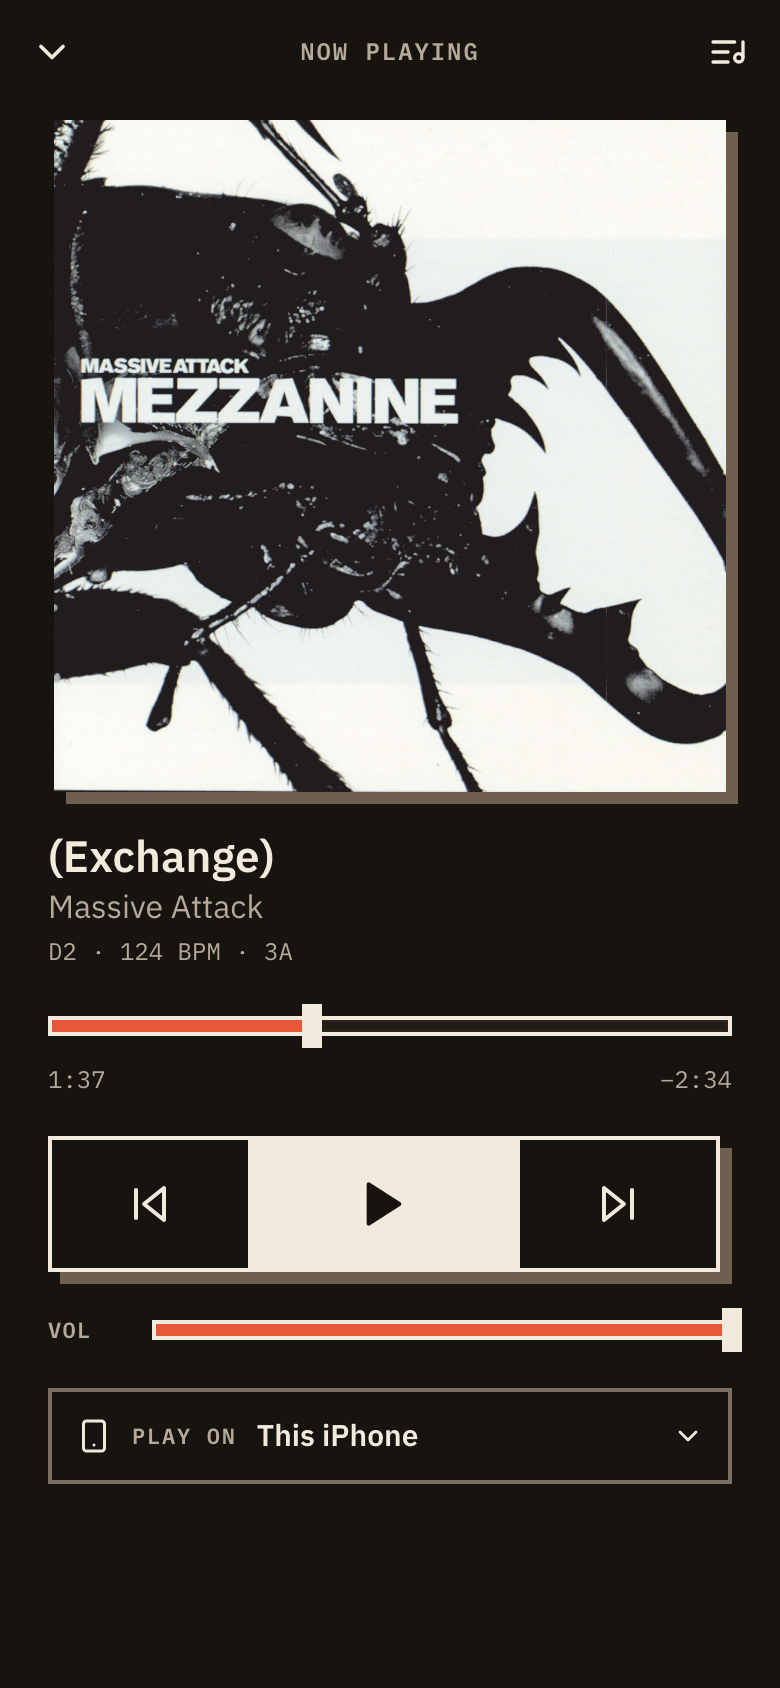
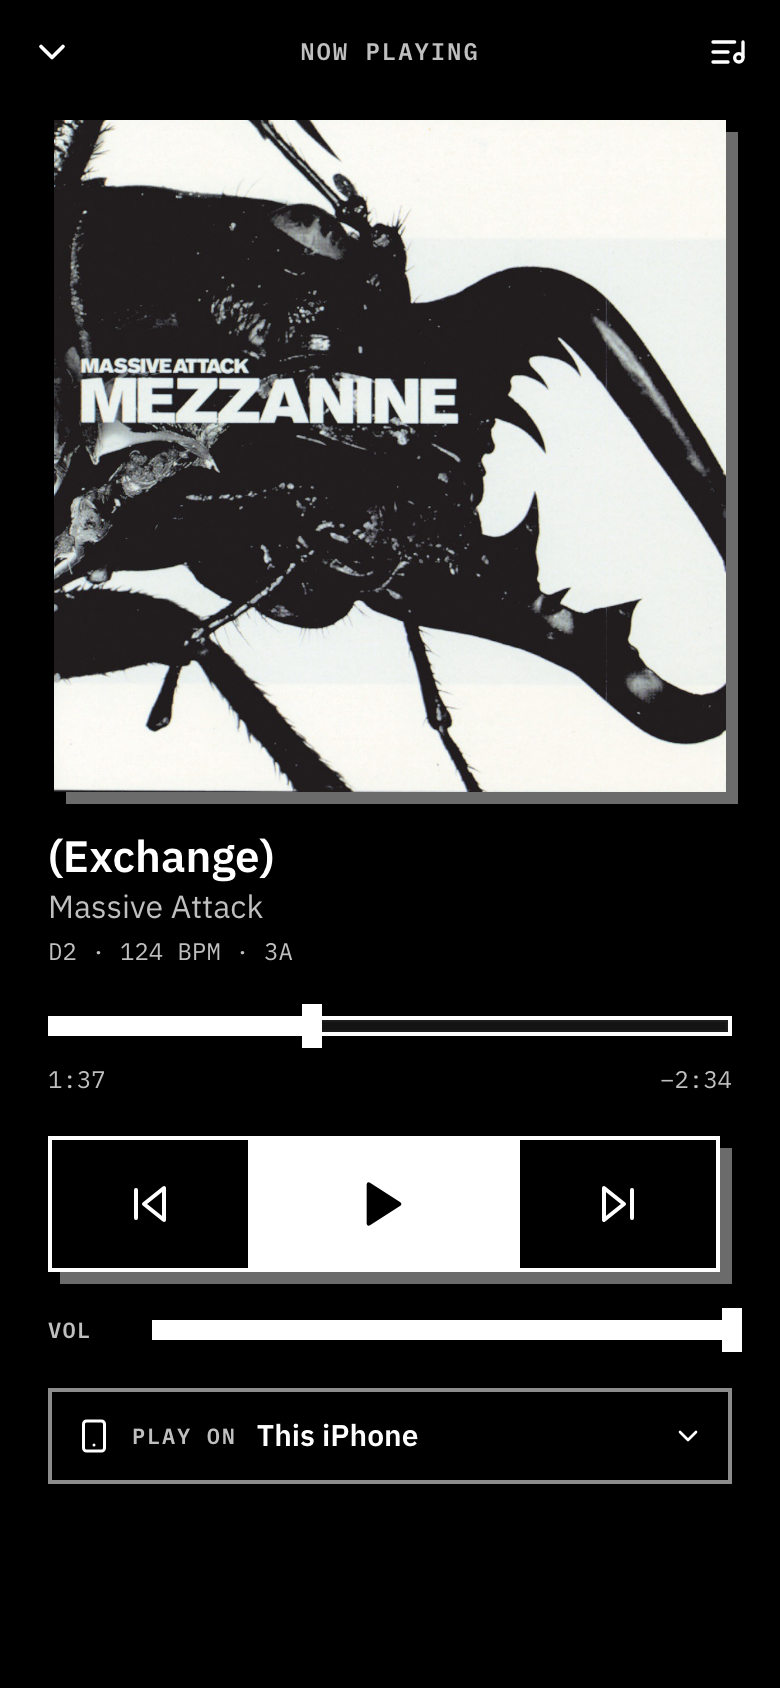
docs(site): generate Mono screenshots and compact mobile docs header

diff --git a/my-collection-search/e2e/screenshots.spec.ts b/my-collection-search/e2e/screenshots.spec.ts
@@ -5,7 +5,6 @@ import {
   test,
   type APIRequestContext,
   type Browser,
-  type Locator,
   type Page,
   type Route,
 } from "@playwright/test";
@@ -23,11 +22,10 @@ import {
 //  - Hidden: the dev stack's Next.js and TanStack devtools, the Developer nav
 //    link (dev-only), toasts, and Home's Now playing card (live state).
 //
-// Privacy (the prod seed is the real collection): none of these views shows
-// another friend's username, notes, listener or source names, or settings.
-// Re-check every PNG by eye after a refresh, and hide anything new here.
+// Collection data is public; no privacy masks are applied. HIDE only removes
+// developer controls and transient/live state for repeatable images.
 test.skip(
-  !process.env.RUN_SCREENSHOTS,
+  process.env.RUN_SCREENSHOTS !== "1",
   "Set RUN_SCREENSHOTS=1 (or run `just site-screenshots`) against a prod-seeded stack",
 );
 
@@ -46,9 +44,19 @@ const QUEUE_POSITION = 97;
 const QUEUE_POSITION_LABEL = "1:37";
 
 const OUT_DIR = fileURLToPath(new URL("../../site/src/assets/screenshots/", import.meta.url));
-const DEFAULT_PALETTE = "sleeve";
+const DEFAULT_PALETTE = "mono";
 const PALETTE = process.env.SCREENSHOT_PALETTE || DEFAULT_PALETTE;
 const MODE = process.env.SCREENSHOT_MODE as Mode | undefined;
+const PALETTES = ["sleeve", "riso", "midnight", "mono"] as const;
+if (!PALETTES.includes(PALETTE as (typeof PALETTES)[number])) {
+  throw new Error(`Unknown screenshot palette: ${PALETTE}`);
+}
+if (MODE && MODE !== "light" && MODE !== "dark") {
+  throw new Error(`Unknown screenshot mode: ${MODE} (use light or dark)`);
+}
+// Fixed entities from the prod seed; never choose the first search result.
+const ALBUM_PATH = "/albums/5077187?friend_id=6";
+const GENRE_PATH = "/genres/trip-hop";
 
 type Mode = "light" | "dark";
 type Viewport = "desktop" | "phone";
@@ -102,8 +110,8 @@ async function putAppearance(request: APIRequestContext, body: Appearance) {
 }
 
 /** `<page>-<viewport>[-<palette>]-<mode>.png`; the palette only when it isn't the default. */
-function fileName(name: string, viewport: Viewport, mode: Mode) {
-  const palette = PALETTE === DEFAULT_PALETTE ? "" : `-${PALETTE}`;
+function fileName(name: string, viewport: Viewport, mode: Mode, selectedPalette: string) {
+  const palette = selectedPalette === DEFAULT_PALETTE ? "" : `-${selectedPalette}`;
   return `${name}-${viewport}${palette}-${mode}.png`;
 }
 
@@ -160,25 +168,25 @@ async function settle(page: Page) {
     .toBe("settled");
 }
 
-async function shoot(page: Page, file: string, mask: Locator[] = []) {
+async function shoot(page: Page, file: string) {
   await settle(page);
   await page.screenshot({
     path: path.join(OUT_DIR, file),
     animations: "disabled",
     caret: "hide",
     scale: "device",
-    mask,
   });
-  await page.context().close();
 }
 
-const shots: Array<{
+type Shot = {
   name: string;
   viewport: Viewport;
   mode: Mode;
   take: (page: Page) => Promise<void>;
   storage?: (request: APIRequestContext) => Promise<Record<string, string>>;
-}> = [
+};
+
+const shots: Shot[] = [
   {
     name: "home",
     viewport: "desktop",
@@ -228,12 +236,23 @@ const shots: Array<{
         route.fulfill(rangeResponse(wav, route.request().headers().range)),
       );
       await page.goto("/");
-      await page
-        .getByTestId("floating-player")
-        .getByRole("button", { name: "Open now playing" })
-        .click();
-      await expect(page.getByRole("button", { name: "Minimize player" })).toBeVisible();
-      await expect(page.getByText(`${QUEUE_POSITION_LABEL}`, { exact: true })).toBeVisible();
+      if (page.viewportSize()!.width >= 768) {
+        await page
+          .getByTestId("floating-player")
+          .getByRole("button", { name: "Queue", exact: true })
+          .click();
+        await expect(page.getByRole("heading", { name: "Queue", exact: true })).toBeVisible();
+        await expect(
+          page.getByTestId("floating-player").getByText(QUEUE_POSITION_LABEL, { exact: true }),
+        ).toBeVisible();
+      } else {
+        await page
+          .getByTestId("floating-player")
+          .getByRole("button", { name: "Open now playing" })
+          .click();
+        await expect(page.getByRole("button", { name: "Minimize player" })).toBeVisible();
+        await expect(page.getByText(QUEUE_POSITION_LABEL, { exact: true })).toBeVisible();
+      }
     },
   },
 ];
@@ -292,18 +311,136 @@ async function queue(request: APIRequestContext) {
   };
 }
 
+// Reuse the marketing recipe for the player: the queue stays paused and no
+// audio, enrichment, sorting or database content is changed by these captures.
+const playerShot = shots.find((shot) => shot.name === "now-playing")!;
+const homeShot = shots.find((shot) => shot.name === "home")!;
+const genresShot = shots.find((shot) => shot.name === "genres")!;
+
+async function album(page: Page) {
+  await page.goto(ALBUM_PATH);
+  await expect(
+    page.getByRole("heading", { name: "Mezzanine", level: 1, exact: true }),
+  ).toBeVisible();
+}
+
+async function playlist(page: Page) {
+  await page.goto(`/playlists/${QUEUE_PLAYLIST_ID}`);
+  await expect(page.getByRole("button", { name: "Playlist actions", exact: true })).toBeVisible();
+  await expect(page.getByText("(Exchange)", { exact: true }).first()).toBeVisible();
+}
+
+const docs: Array<Omit<Shot, "mode">> = [
+  { ...homeShot, viewport: "phone" },
+  { ...genresShot },
+  { ...playerShot, viewport: "desktop" },
+  {
+    name: "tracks-rows",
+    viewport: "desktop",
+    storage: async () => ({ searchViewMode: "row" }),
+    take: async (page) => {
+      await page.goto("/tracks");
+      await expect(page.getByRole("heading", { name: "Tracks", exact: true })).toBeVisible();
+    },
+  },
+  {
+    name: "tracks-grid",
+    viewport: "desktop",
+    storage: async () => ({ searchViewMode: "card" }),
+    take: async (page) => {
+      await page.goto("/tracks");
+      await expect(page.getByRole("heading", { name: "Tracks", exact: true })).toBeVisible();
+    },
+  },
+  {
+    name: "tracks",
+    viewport: "phone",
+    take: async (page) => {
+      await page.goto("/tracks");
+      await expect(page.getByRole("heading", { name: "Tracks", exact: true })).toBeVisible();
+    },
+  },
+  { name: "album", viewport: "desktop", take: album },
+  { name: "playlist", viewport: "desktop", take: playlist },
+  {
+    name: "optimiser",
+    viewport: "desktop",
+    take: async (page) => {
+      await playlist(page);
+      await page.getByRole("button", { name: "Playlist actions", exact: true }).click();
+      await expect(
+        page.getByRole("menuitem", { name: "Genetic Order", exact: true }),
+      ).toBeVisible();
+      // Show the available ordering tools without running or saving a sort.
+    },
+  },
+  {
+    name: "enrichment",
+    viewport: "desktop",
+    take: async (page) => {
+      await album(page);
+      await page.getByRole("button", { name: "Album actions", exact: true }).click();
+      await page.getByRole("menuitem", { name: "Enrich Album", exact: true }).click();
+      await expect(page.getByRole("heading", { name: "Enrich", exact: true })).toBeVisible();
+      // Capture setup, without invoking external providers or saving metadata.
+    },
+  },
+  {
+    name: "genre",
+    viewport: "desktop",
+    take: async (page) => {
+      await page.goto(GENRE_PATH);
+      await expect(page.getByRole("heading", { name: "Trip Hop", exact: true })).toBeVisible();
+    },
+  },
+  {
+    name: "appearance",
+    viewport: "desktop",
+    take: async (page) => {
+      await page.goto("/settings?section=appearance");
+      await expect(page.getByRole("tab", { name: "Appearance", exact: true })).toHaveAttribute(
+        "aria-selected",
+        "true",
+      );
+    },
+  },
+];
+
+const captures = [
+  // Every page in Mono light and dark. Marketing names remain unchanged.
+  ...[...shots, ...docs].flatMap((shot) =>
+    (MODE ? [MODE] : (["light", "dark"] as const)).map((mode) => ({
+      ...shot,
+      mode,
+      palette: PALETTE,
+    })),
+  ),
+  // One Home hero per other palette for docs; explicit --palette selects only that palette.
+  ...(process.env.SCREENSHOT_PALETTE
+    ? []
+    : PALETTES.filter((palette) => palette !== DEFAULT_PALETTE).map((palette) => ({
+        ...homeShot,
+        mode: MODE ?? "light",
+        palette,
+      }))),
+];
+
 const files = new Set<string>();
-for (const shot of shots) {
-  const mode = MODE ?? shot.mode;
-  const file = fileName(shot.name, shot.viewport, mode);
-  // --mode turns a shot's light and dark variants into the same file: take it once.
+for (const shot of captures) {
+  const file = fileName(shot.name, shot.viewport, shot.mode, shot.palette);
   if (files.has(file)) continue;
   files.add(file);
   test(file, async ({ browser, baseURL, request }, testInfo) => {
+    test.setTimeout(90_000);
     test.skip(testInfo.project.name !== "desktop", "Each shot sets its own viewport");
+    await putAppearance(request, { palette: shot.palette });
     const storage = shot.storage ? await shot.storage(request) : {};
-    const page = await openPage(browser, baseURL, shot.viewport, mode, storage);
-    await shot.take(page);
-    await shoot(page, file);
+    const page = await openPage(browser, baseURL, shot.viewport, shot.mode, storage);
+    try {
+      await shot.take(page);
+      await shoot(page, file);
+    } finally {
+      await page.context().close();
+    }
   });
 }

diff --git a/site/src/styles/docs.css b/site/src/styles/docs.css
@@ -64,8 +64,8 @@ button, select, input, dialog, .pagination-links a, .sidebar a, .expressive-code
 .sl-markdown-content table { font-size: 0.875rem; }
 .sl-markdown-content th { font-family: var(--mono); }
 :focus-visible { outline: 2px solid var(--focus); outline-offset: 3px; }
-@media (max-width: 800px) {
-  :root { --gutter: 16px; --sl-nav-height: 12rem; }
+@media (width < 50rem) {
+  :root { --gutter: 16px; --sl-nav-height: 4rem; --sl-menu-button-size: 44px; }
   .docs-footer .wrap { min-width: 0; }
 }
 
@@ -73,8 +73,8 @@ button, select, input, dialog, .pagination-links a, .sidebar a, .expressive-code
 site-search dialog, site-search .pagefind-ui *, mobile-starlight-toc summary { border-radius: 0 !important; }
 site-search dialog { border: 2px solid var(--ink); }
 .sl-menu-button { border: 2px solid var(--ink); }
-@media (max-width: 800px) {
-  .sl-menu-button { top: calc(var(--sl-nav-height) - 2.75rem); }
+@media (width < 50rem) {
+  .sl-menu-button { top: calc((var(--sl-nav-height) - var(--sl-menu-button-size)) / 2); }
 }
 mobile-starlight-toc .toggle { border: 2px solid var(--ink); border-radius: 0; font-family: var(--mono); }
 .docs-tools :is(button, select) { font-family: var(--mono); }

diff --git a/site/CLAUDE.md b/site/CLAUDE.md
@@ -100,23 +100,29 @@ prod seed. CI has no seeded stack, so they only change when someone runs:
 
 ```bash
 just worktree-seed-prod && just worktree-up   # if the stack isn't prod-seeded yet
-just site-screenshots                         # all shots, Sleeve, each in its own mode
+just site-screenshots                         # all shots, Mono light/dark + one hero per palette
 just site-screenshots --palette riso --mode dark   # extra variants, for docs
 ```
 
 Refresh them after a visible UI change, or with a new seed. The command
 sets the palette through `PUT /api/settings/appearance` and puts the saved one
 back afterwards, takes every shot at 2x (`<page>-<viewport>[-<palette>]-<mode>.png`),
-then recompresses them losslessly (`scripts/compress-screenshots.mjs`).
+then recompresses them losslessly (`scripts/compress-screenshots.mjs`). The 2x PNGs
+are exempt from the 1 MiB pre-commit limit; keep that exception limited to this asset directory.
 
 - **Stable:** the clock, time zone, Spins month and Now playing queue are
   constants at the top of the spec. After a new seed, move `CLOCK` and
   `SPINS_MONTH` to the seed's date, and check `QUEUE_PLAYLIST_ID` still exists.
   A second run with no app change gives no diff.
-- **Privacy:** the seed is the real collection. Look at every PNG before
-  committing: no friend usernames other than the owner's, notes, listener or
-  source names, emails, keys or hostnames. Hide anything new through the
-  spec's `HIDE` list or a `mask`, or pick another view, and list it there.
+- **Content:** collection data is public; no privacy masks are needed. Only
+  developer controls, toasts and Home's live Now playing card are hidden for stability.
+- **Docs:** all pages get Mono light and dark versions. The default run also
+  captures a Home hero in Sleeve, Riso and Midnight. `--palette` selects just
+  that palette; `--mode` selects one mode. Mono filenames omit the palette suffix.
+  Fixed album and genre routes are next to the clock constants in the spec.
+  The optimiser shot shows its actions menu; enrichment shows setup, so neither
+  invokes a service or changes collection data. Link images from `docs/using/` with
+  `../../site/src/assets/screenshots/<file>.png` Markdown paths; Astro processes them at build time.
 - **Serving 2x:** a frame's `widths` must include twice its largest display
   width (`BrowserFrame` shows 760px, so 1520). Astro never upscales.
 

diff --git a/docs/using/playlists.md b/docs/using/playlists.md
@@ -12,3 +12,7 @@ The actions menu offers **Greedy order**, **Genetic order** and **Cohesive block
 Review the BPM curve, keys, duration and repeated records after sorting. An optimiser cannot know which transition you want to ride or cut. Move entries by hand and save the result.
 
 Use export/import actions when moving a set between tools. **Enqueue** sends it to playback. To check a set from a terminal, use `groovenet playlists check <id>`; see the [CLI guide](/docs/cli/).
+
+![A playlist ready for a set](../../site/src/assets/screenshots/playlist-desktop-light.png)
+
+![Playlist ordering tools](../../site/src/assets/screenshots/optimiser-desktop-light.png)

diff --git a/docs/using/search.md b/docs/using/search.md
@@ -12,3 +12,7 @@ Use the search mode control to choose word matching, semantic search or hybrid s
 Open **Filters** to narrow the list by genre, BPM, key, rating or missing metadata. Genre selections include their subgenres. Active filter chips show what is applied; remove a chip to widen the search.
 
 On a phone, open **Search options** for search mode and filters, then **Show results** to return to the list. Open a track for its metadata, streaming links and playlist usage.
+
+![Tracks in rows view](../../site/src/assets/screenshots/tracks-rows-desktop-light.png)
+
+![Tracks in grid view](../../site/src/assets/screenshots/tracks-grid-desktop-light.png)

diff --git a/docs/using/albums.md b/docs/using/albums.md
@@ -10,3 +10,5 @@ Open **Albums** to browse the collection as records. Search for a title or artis
 Open a record to see its tracklist and release details. Add a library identifier to locate it on your shelves. Rate it or leave notes while the record is in front of you.
 
 Use the album's download action to queue missing tracks. Check their streaming matches first if downloads fail or bring back the wrong recording. Physical copies and their cleaning history live in [Copies & care](/docs/using/record-care/).
+
+![Album details and tracklist](../../site/src/assets/screenshots/album-desktop-light.png)

diff --git a/docs/using/enrichment.md b/docs/using/enrichment.md
@@ -12,3 +12,5 @@ Edit tags and notes while reviewing the track. Save the match before moving on; 
 Downloads and audio analysis are separate jobs. A streaming URL is a match, not a BPM or key measurement. Queue audio after checking the match, then let the download worker and Essentia analyse it. Missing-data filters help you find what still needs work.
 
 Provider credentials belong in the server's [integration settings](/docs/configuration/integrations/).
+
+![Enrichment setup for an album](../../site/src/assets/screenshots/enrichment-desktop-light.png)
